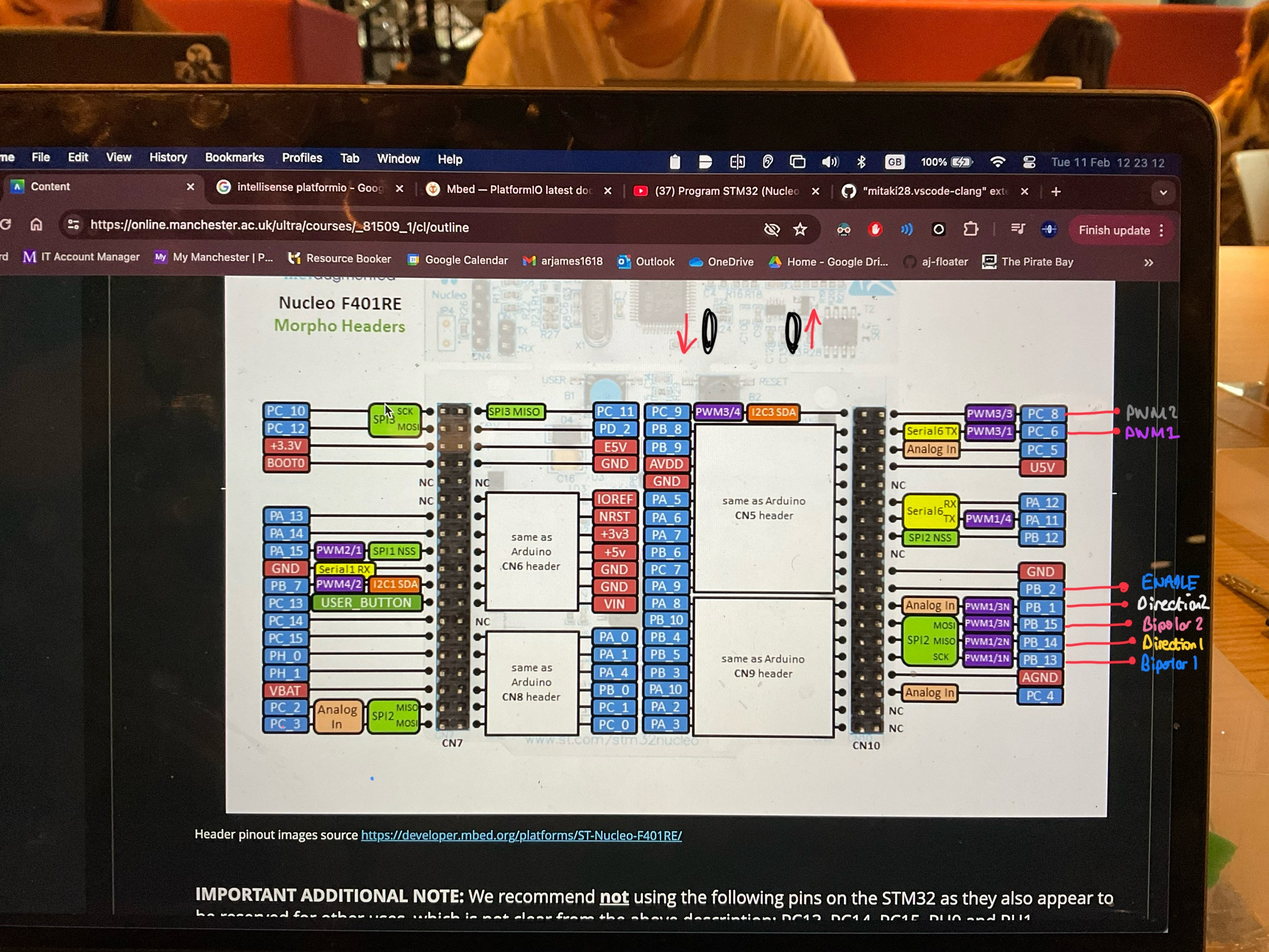
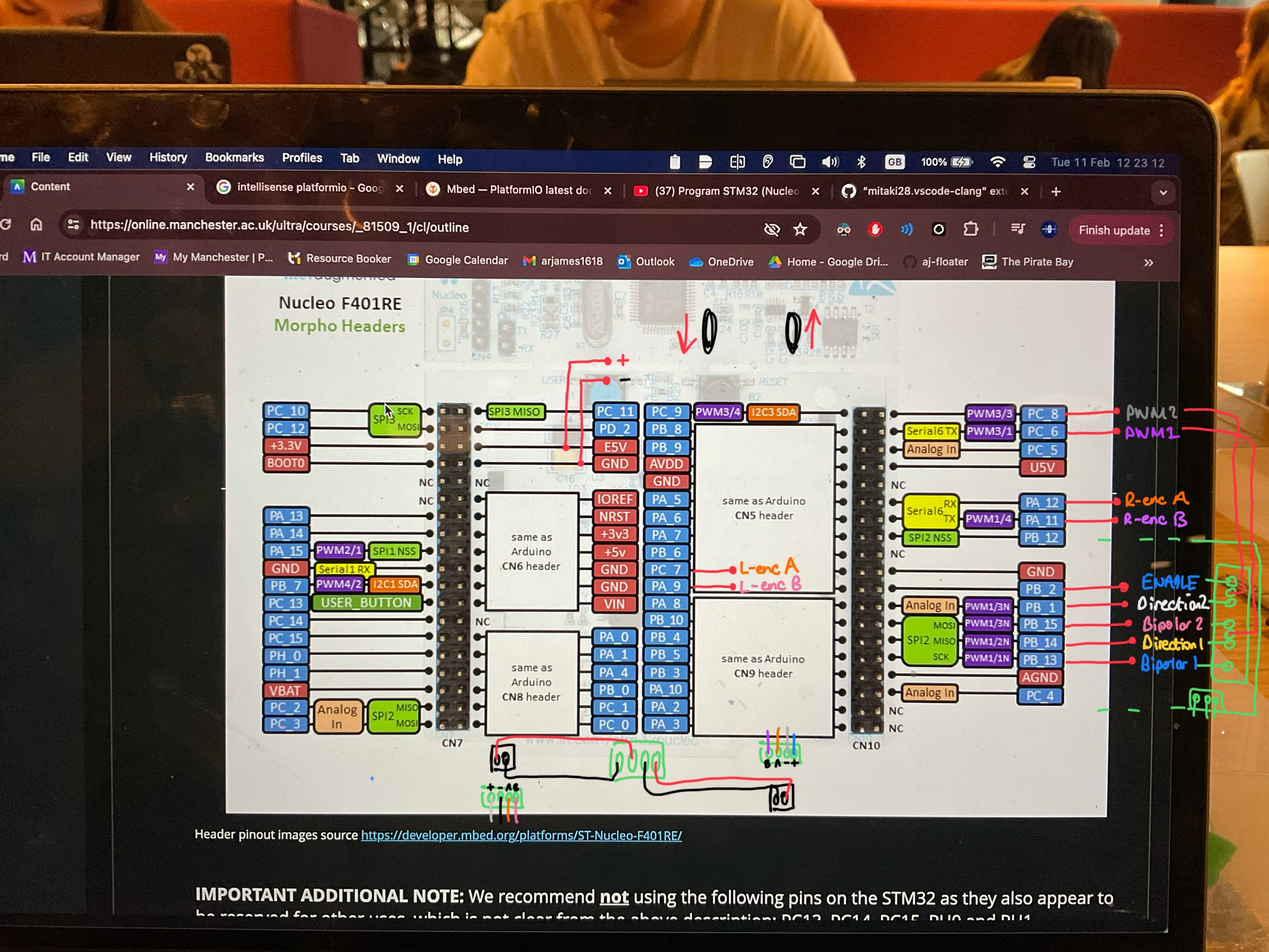
encoder wiring changed

diff --git a/include/wheel.h b/include/wheel.h
@@ -121,7 +121,7 @@ public:
     }
 };
 
-Wheel right_wheel(0.008f, 0.0035f, 0.0009f, 0.028f, PA_12, PA_11, PC_6, PB_14, 1);
+Wheel right_wheel(0.008f, 0.0035f, 0.0009f, 0.028f, PC_2, PC_3, PC_6, PB_14, 1);
 Wheel left_wheel(0.008f, 0.0035f, 0.0009f, 0.0262f, PC_7, PA_9, PC_8, PB_1, 0);
 
 #endif // End of include guard
